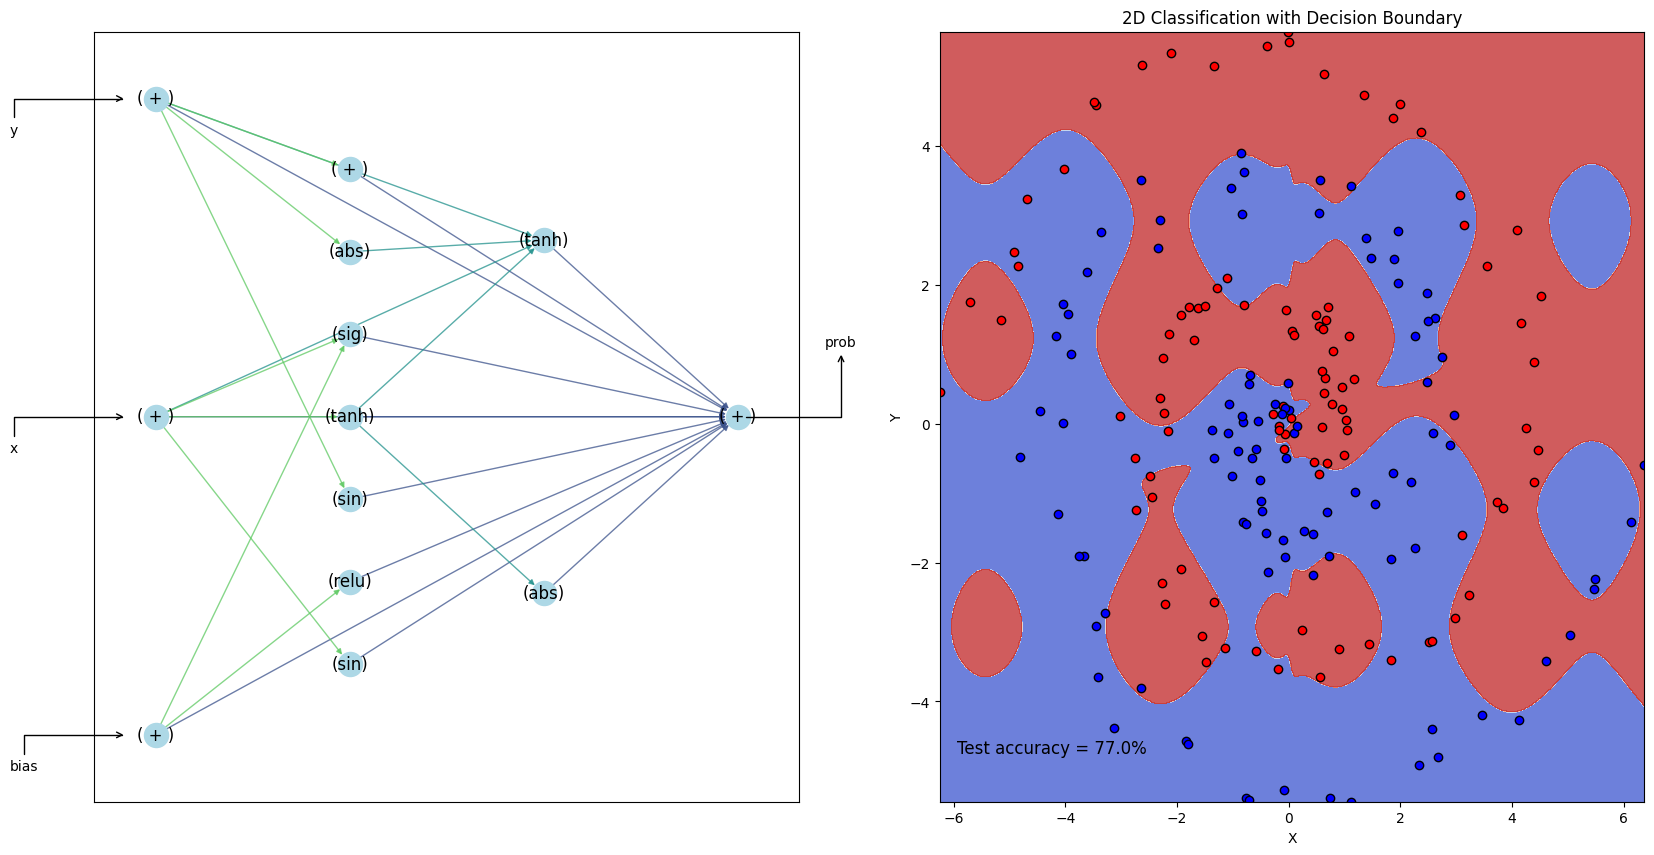
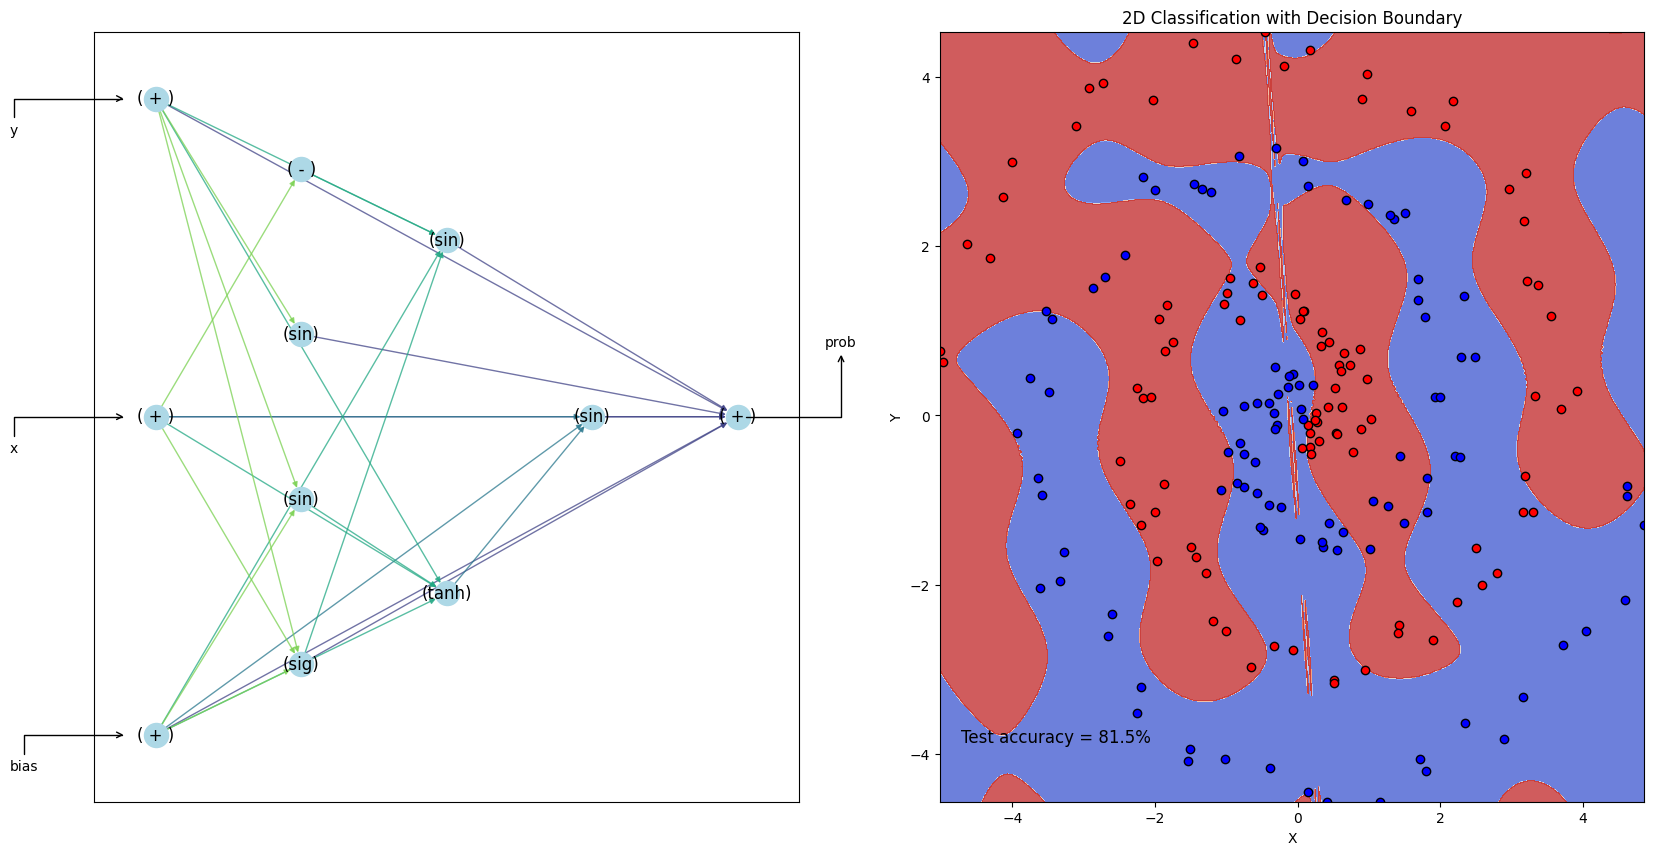
optimize addConn,numerical stability

diff --git a/neat_src/ind.py b/neat_src/ind.py
@@ -157,6 +157,8 @@ class Ind():
     # bGenes = np.random.rand(1,len(matching))<bProb
     # child.conn[3,IA[bGenes[0]]] = parentB.conn[3,IB[bGenes[0]]]
 
+    # return child
+    
     # < ---- True NEAT Crossover ---- >
     connA, nodeA = parentA.conn, parentA.node
     connB, nodeB = parentB.conn, parentB.node
@@ -164,42 +166,6 @@ class Ind():
     connChild = np.empty((5,0))
     nodeChild = np.empty((3,0))
     
-    connAId, connBId = connA[0,:], connB[0,:]
-    overlapConn = np.intersect1d(connAId,connBId)
-    diffConnA = np.setdiff1d(connAId,connBId) # setdiffid only return different elements in first argument
-    diffConnB = np.setdiff1d(connBId,connAId) # setdiffid only return different elements in first argument
-    allConn = np.concatenate((overlapConn,diffConnA,diffConnB))
-    overlapConn_len, diffConnA_len = len(overlapConn), len(diffConnA)
-    detect_cycle = False
-    for i in range(len(allConn)):
-      id = allConn[i]
-      aInd = np.where(connAId==id)[0]
-      bInd = np.where(connBId==id)[0]
-      if i < overlapConn_len:
-        assert len(aInd) == len(bInd) == 1, f'Innovation record corrupted {aInd} {bInd}'
-        if np.random.rand() < 0.5:
-          connChild = np.hstack((connChild,connA[:,aInd]))
-        else:
-          connChild = np.hstack((connChild,connB[:,bInd]))
-        if (connA[4,aInd[0]] == 0) and (connB[4,bInd[0]] == 0):
-          connChild[4,-1] = 0
-        else:
-          connChild[4,-1] = 1
-      elif i < overlapConn_len + diffConnA_len:
-        assert len(aInd) == 1 and len(bInd) == 0, f'Innovation record corrupted {aInd} {bInd}'
-        connChild = np.hstack((connChild,connA[:,aInd]))
-      else:
-        assert len(aInd) == 0 and len(bInd) == 1, f'Innovation record corrupted {aInd} {bInd}'
-        if not self.create_cycle(connChild, connB[:,bInd]): # avoid recurrent connections
-          connChild = np.hstack((connChild,connB[:,bInd]))
-        else:
-          detect_cycle = True
-          break
-    
-    if detect_cycle:
-      connChild, nodeChild = connA, nodeA
-      return Ind(connChild, nodeChild)
-      
     nodeAId, nodeBId = nodeA[0,:], nodeB[0,:]
     overlapNode = np.intersect1d(nodeAId,nodeBId)
     diffNode = np.setxor1d(nodeAId,nodeBId)
@@ -222,11 +188,41 @@ class Ind():
         else:
           assert len(aInd) == 0, f'Innovation record corrupted {aInd} {bInd}'
           nodeChild = np.hstack((nodeChild,nodeB[:,bInd]))
-
-    child = Ind(connChild, nodeChild)
     
-    return child
+    connAId, connBId = connA[0,:], connB[0,:]
+    overlapConn = np.intersect1d(connAId,connBId)
+    diffConnA = np.setdiff1d(connAId,connBId) # setdiffid only return different elements in first argument
+    diffConnB = np.setdiff1d(connBId,connAId) # setdiffid only return different elements in first argument
+    allConn = np.concatenate((overlapConn,diffConnA,diffConnB))
+    overlapConn_len, diffConnA_len = len(overlapConn), len(diffConnA)
+    for i in range(len(allConn)):
+      id = allConn[i]
+      aInd = np.where(connAId==id)[0]
+      bInd = np.where(connBId==id)[0]
+      if i < overlapConn_len:
+        assert len(aInd) == len(bInd) == 1, f'Innovation record corrupted {aInd} {bInd}'
+        if np.random.rand() < 0.5:
+          connChild = np.hstack((connChild,connA[:,aInd]))
+        else:
+          connChild = np.hstack((connChild,connB[:,bInd]))
+        if (connA[4,aInd[0]] == 0) and (connB[4,bInd[0]] == 0):
+          connChild[4,-1] = 0
+        else:
+          connChild[4,-1] = 1
+      elif i < overlapConn_len + diffConnA_len:
+        assert len(aInd) == 1 and len(bInd) == 0, f'Innovation record corrupted {aInd} {bInd}'
+        connChild = np.hstack((connChild,connA[:,aInd]))
+      else:
+        assert len(aInd) == 0 and len(bInd) == 1, f'Innovation record corrupted {aInd} {bInd}'
+        connChild = np.hstack((connChild,connB[:,bInd]))
+    
+    order, _ = getNodeOrder(nodeChild, connChild)
+    
+    if order is False:
+      connChild, nodeChild = connA, nodeA
 
+    return Ind(connChild, nodeChild)
+    
   def mutate(self,p,innov=None,gen=None):
     """Randomly alter topology and weights of individual
 
@@ -284,13 +280,13 @@ class Ind():
     if (np.random.rand() < p['prob_addNode']) and np.any(connG[4,:]==1):
       connG, nodeG, innov = self.mutAddNode(connG, nodeG, innov, gen, p)
     
+    if (np.random.rand() < p['prob_addConn']):
+      connG, innov = self.mutAddConn(connG, nodeG, innov, gen, p)
+    
     disabled = np.where(connG[4,:] == 0)[0]
     if len(disabled) > 0:
       selected = np.random.choice(disabled)
       connG[4,selected] = 1 if np.random.rand() < p['prob_enable'] else 0
-    
-    if (np.random.rand() < p['prob_addConn']):
-      connG, innov = self.mutAddConn(connG, nodeG, innov, gen, p) 
     
     child = Ind(connG, nodeG)
     child.birth = gen
@@ -435,47 +431,55 @@ class Ind():
     L = np.r_[np.zeros(nIns), hLay, np.full((nOuts),lastLayer) ]
     nodeKey = np.c_[nodeG[0,order], L] # Assign Layers
 
-    sources = np.random.permutation(len(nodeKey))
-    for src in sources:
-      srcLayer = nodeKey[src,1]
-      dest = np.where(nodeKey[:,1] > srcLayer)[0]
-      
-      # Finding already existing connections:
-      #   ) take all connection genes with this source (connG[1,:])
-      #   ) take the destination of those genes (connG[2,:])
-      #   ) convert to nodeKey index (Gotta be a better numpy way...)   
-      srcIndx = np.where(connG[1,:]==nodeKey[src,0])[0]
-      exist = connG[2,srcIndx]
-      existKey = []
-      for iExist in exist:
-        existKey.append(np.where(nodeKey[:,0]==iExist)[0])
-      dest = np.setdiff1d(dest,existKey) # Remove existing connections
-      
-      # Add a random valid connection
-      np.random.shuffle(dest)
-      if len(dest)>0:  # (there is a valid connection)
-        connNew = np.empty((5,1))
-        connNew[0] = newConnId
-        connNew[1] = nodeKey[src,0]
-        connNew[2] = nodeKey[dest[0],0]
-        connNew[3] = (np.random.rand()-0.5)*2*p['ann_absWCap']
-        connNew[4] = 1 
-        # connG = np.c_[connG,connNew]
+    srcLayers = np.random.permutation(int(lastLayer))
+    connAdded = False
+    # sources = np.random.permutation(len(nodeKey))
+    # for src in sources:
+    for srcLayer in srcLayers:
+      # srcLayer = nodeKey[src,1]
+      sources = np.where(nodeKey[:,1] == srcLayer)[0]
+      sources = np.random.permutation(sources)
+      for src in sources:
+        dest = np.where(nodeKey[:,1] > srcLayer)[0]     
+        # Finding already existing connections:
+        #   ) take all connection genes with this source (connG[1,:])
+        #   ) take the destination of those genes (connG[2,:])
+        #   ) convert to nodeKey index (Gotta be a better numpy way...)   
+        srcIndx = np.where(connG[1,:]==nodeKey[src,0])[0]
+        exist = connG[2,srcIndx]
+        existKey = []
+        for iExist in exist:
+          existKey.append(np.where(nodeKey[:,0]==iExist)[0])
+        dest = np.setdiff1d(dest,existKey) # Remove existing connections
         
-        # deduplicate innovations
-        dup = False
-        connInnov = innov[:,(innov[1,:]==connNew[1]) & (innov[2,:]==connNew[2])]
-        if connInnov.shape[1] != 0:
-          assert connInnov.shape[1] == 1, 'Innovation record corrupted'
-          connNew[0] = connInnov[0,0] # connInnov could be smaller than connNew
-          assert connG[:,connG[0,:]==connNew[0]].shape[1] == 0, 'Innovation record corrupted'
-          dup = True
-        
-        connG = np.c_[connG,connNew]
-        # Record innovation
-        if not dup:
-          newInnov = np.hstack((connNew[0:3].flatten(), -1, gen))
-          innov = np.hstack((innov,newInnov[:,None]))
+        # Add a random valid connection
+        np.random.shuffle(dest)
+        if len(dest)>0:  # (there is a valid connection)
+          connNew = np.empty((5,1))
+          connNew[0] = newConnId
+          connNew[1] = nodeKey[src,0]
+          connNew[2] = nodeKey[dest[0],0]
+          connNew[3] = (np.random.rand()-0.5)*2*p['ann_absWCap']
+          connNew[4] = 1 
+          # connG = np.c_[connG,connNew]
+          
+          # deduplicate innovations
+          dup = False
+          connInnov = innov[:,(innov[1,:]==connNew[1]) & (innov[2,:]==connNew[2])]
+          if connInnov.shape[1] != 0:
+            assert connInnov.shape[1] == 1, 'Innovation record corrupted'
+            connNew[0] = connInnov[0,0] # connInnov could be smaller than connNew
+            assert connG[:,connG[0,:]==connNew[0]].shape[1] == 0, 'Innovation record corrupted'
+            dup = True
+          
+          connG = np.c_[connG,connNew]
+          # Record innovation
+          if not dup:
+            newInnov = np.hstack((connNew[0:3].flatten(), -1, gen))
+            innov = np.hstack((innov,newInnov[:,None]))
+          connAdded = True
+          break
+      if connAdded:
         break
 
     return connG, innov
@@ -523,25 +527,3 @@ class Ind():
       nodeG[2,mutNode] = int(newActPool[np.random.randint(len(newActPool))])
 
     return nodeG, innov
-  
-  
-  def create_cycle(self, conn1, conn2):
-    assert len(conn2.shape) == 2 and conn2.shape[1] == 1, f'conn2 must be a 2D array {conn2.shape}'
-    src, des = conn2[1,0], conn2[2,0]
-    
-    if src == des:
-      return True
-
-    visited = {des}
-    q = np.array([des])
-    while len(q):
-        l = len(q)
-        for dest in conn1[2,np.isin(conn1[1,:], q)]:
-          if dest not in visited:
-              if dest == src:
-                  return True
-              visited.add(dest)
-              q = np.append(q, dest)
-        q = q[l:]
-
-    return False

diff --git a/domain/task_gym.py b/domain/task_gym.py
@@ -71,6 +71,7 @@ class GymTask():
       return fitness
     else:
       gradMask = gradMask if gradMask is not None else np.where(np.isnan(wVec), 0, 1)
+      nConn = np.sum(~np.isnan(wVec))
       wVec = np.where(np.isnan(wVec), 0, wVec)
       if not backprop_eval:
         init_error = self.get_error(wVec, aVec)
@@ -93,16 +94,16 @@ class GymTask():
           error = very_init_error
           wVec = wVec_ori
         connPenalty = hyp['connPenalty'] if 'connPenalty' in hyp else 0.03
-        reward = -error * (1+connPenalty * np.sqrt(np.count_nonzero(wVec)))
+        reward = -error * (1+connPenalty * np.sqrt(nConn))
         return reward, wVec
       else:
         reward = np.empty(nRep)
         for iRep in range(nRep):
-          reward[iRep] = self.testInd(wVec, aVec, view=view, seed=seed+iRep, hyp=hyp, backprop_eval=backprop_eval)
+          reward[iRep] = self.testInd(wVec, aVec, view=view, seed=seed+iRep, hyp=hyp, backprop_eval=backprop_eval, nConn=nConn)
         return np.mean(reward)
         
 
-  def testInd(self, wVec, aVec, view=False, seed=-1, hyp=None, backprop_eval=False, gradMask=None, first_epoch=False):
+  def testInd(self, wVec, aVec, view=False, seed=-1, hyp=None, backprop_eval=False, gradMask=None, nConn=None, first_epoch=False):
     """Evaluate individual on task
     Args:
       wVec    - (np_array) - weight matrix as a flattened vector
@@ -128,8 +129,6 @@ class GymTask():
       annOut = act(wVec, aVec, self.nInput, self.nOutput, state)  
       action = selectAct(annOut,self.actSelect)    
     
-      wVec[wVec!=0]
-      predName = str(np.mean(wVec[wVec!=0]))
       state, reward, done, info = self.env.step(action)
       
       if self.maxEpisodeLength == 0:
@@ -164,14 +163,14 @@ class GymTask():
       if backprop_eval:
         connPenalty = hyp['connPenalty'] if 'connPenalty' in hyp else 0.03
         error = self.get_error(wVec, aVec)
-        nConn = np.count_nonzero(wVec)
         totalReward = -error * (1+connPenalty * np.sqrt(nConn))
         return totalReward
       
       else:
         self.env.batch = hyp['batch_size'] if 'batch_size' in hyp else 10
-        state = self.env.reset()
         self.env.t = 0
+        state = self.env.reset()
+        y = self.env.get_labels()
         
         if jnp.ndim(wVec) < 2:
           nNodes = int(jnp.sqrt(jnp.shape(wVec)[0]))
@@ -181,7 +180,7 @@ class GymTask():
         def forward(wVec, aVec, input, output, state, y, actSelect, backprop, nNodes, gradMask):
             annOut = act(wVec, aVec, input, output, state, backprop, nNodes, gradMask)
             action = selectAct(annOut, actSelect, backprop)
-            action = jnp.clip(action, 1e-7, 1 - 1e-7)
+            action = jnp.clip(action, 1e-8, 1 - 1e-8)
             loss = -jnp.mean(y * jnp.log(action) + (1 - y) * jnp.log(1 - action))
             return loss
             
@@ -196,7 +195,6 @@ class GymTask():
         self.avg_vel = 0 if first_epoch else self.avg_vel
         eps = 1e-8
         while not done:
-          y = self.env.get_labels()
           grads = grad(loss)(wVec, state=state, y=y)
           grads = jnp.where(jnp.isnan(grads), 0, grads)
           self.avg_vel = alpha * self.avg_vel + (1 - alpha) * jnp.square(grads)
@@ -204,6 +202,7 @@ class GymTask():
           wVec = wVec - step_size * (grads / (jnp.sqrt(jnp.maximum(jnp.square(self.avg_vel), eps)))) - weight_decay * wVec
           wVec = jnp.clip(wVec, -hyp['ann_absWCap'], hyp['ann_absWCap'])
           state, _, done, _ = self.env.step(None)
+          y = self.env.get_labels()
           # if view:
           #   if self.needsClosed:
           #     self.env.render(close=done)  
@@ -213,7 +212,6 @@ class GymTask():
             state = self.env.trainSet
             y = self.env.target
             wVec_np = device_get(wVec).copy()
-            nConn = np.count_nonzero(wVec_np)
             error = self.get_error(wVec_np, aVec)
             break
         jax.clear_caches()
@@ -237,6 +235,6 @@ class GymTask():
     pred = np.where(action > 0.5, 1, 0)
     assert pred.shape == y.shape, "Prediction and target shape mismatch"
     # error = np.mean(np.abs(pred - y))
-    action = np.clip(action, 1e-7, 1 - 1e-7)
+    action = np.clip(action, 1e-8, 1 - 1e-8)
     error = -np.mean(y * np.log(action) + (1 - y) * np.log(1 - action))
     return error

diff --git a/neat_src/ann.py b/neat_src/ann.py
@@ -247,13 +247,13 @@ def applyAct(actId, x, backprop=False):
       value = np.sin(np.pi*x) 
 
     elif actId == 4: # Gaussian with mean 0 and sigma 1
-      value = np.exp(-np.multiply(x, x) / 2.0)
+      value = np.exp(-np.square(x) / 2.0)
 
     elif actId == 5: # Hyperbolic Tangent (signed)
       value = np.tanh(x)     
 
     elif actId == 6: # Sigmoid (unsigned)
-      value = (np.tanh(x/2.0) + 1.0)/2.0
+      value = np.exp(-np.logaddexp(0, -x))
 
     elif actId == 7: # Inverse
       value = -x
@@ -285,13 +285,13 @@ def applyAct(actId, x, backprop=False):
       value = jnp.sin(jnp.pi*x) 
 
     elif actId == 4: # Gaussian with mean 0 and sigma 1
-      value = jnp.exp(-jnp.multiply(x, x) / 2.0)
+      value = jnp.exp(-jnp.square(x) / 2.0)
 
     elif actId == 5: # Hyperbolic Tangent (signed)
       value = jnp.tanh(x)     
 
     elif actId == 6: # Sigmoid (unsigned)
-      value = (jnp.tanh(x/2.0) + 1.0)/2.0
+      value = jnp.exp(-jnp.logaddexp(0, -x))
 
     elif actId == 7: # Inverse
       value = -x
@@ -342,7 +342,7 @@ def selectAct(action, actSelect, backprop=False):
     elif actSelect == 'prob':
       action = weightedRandom(np.sum(action,axis=0))
     elif actSelect == 'sigmoid':
-      action = (np.tanh(action/2.0) + 1.0)/2.0
+      action = np.exp(-np.logaddexp(0, -action))
     else:
       action = action.flatten()
     return action
@@ -352,7 +352,7 @@ def selectAct(action, actSelect, backprop=False):
     elif actSelect == 'prob':
       raise ValueError("Probabilistic action selection is not differentiable")
     elif actSelect == 'sigmoid':
-      action = (jnp.tanh(action/2.0) + 1.0)/2.0
+      action = jnp.exp(-jnp.logaddexp(0, -action))
     else:
       action = action.flatten()
     return action
